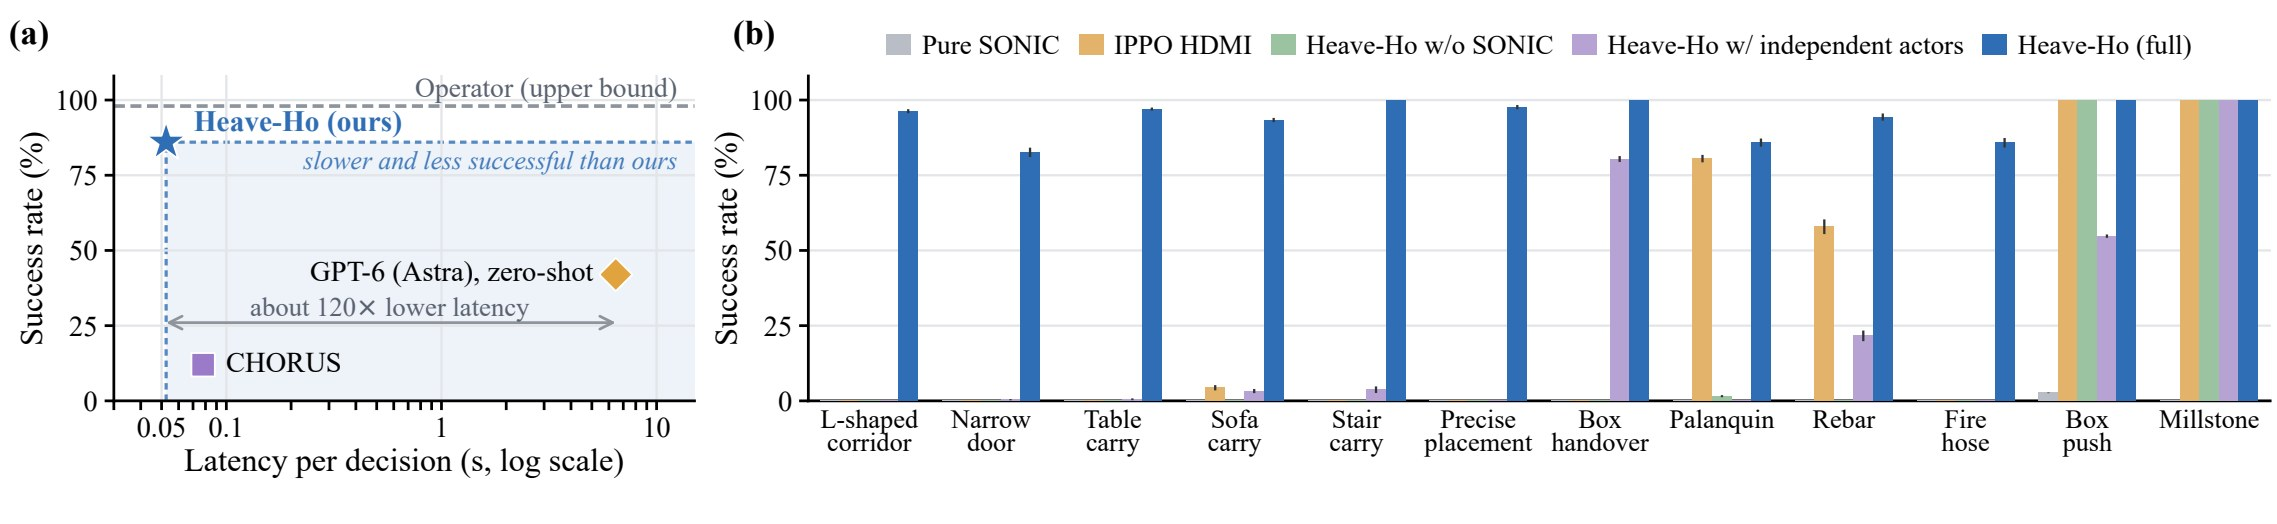
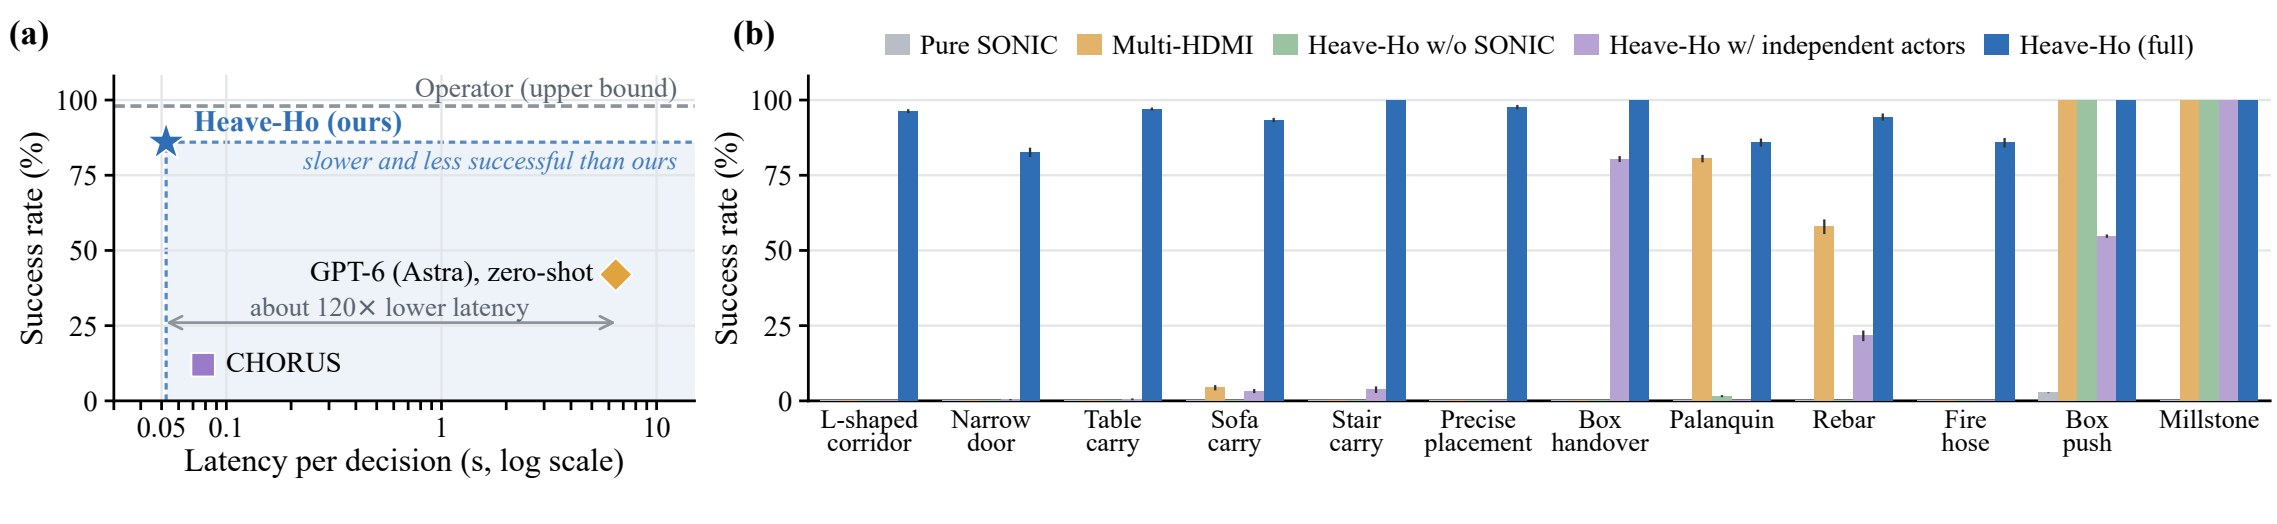
Rename IPPO HDMI baseline to Multi-HDMI; update author affiliations (VinMotion)

Changed region(s): [[0.4054, 0.0611, 0.9666, 0.1221]]

diff --git a/index.html b/index.html
@@ -24,7 +24,7 @@ table{border-collapse:collapse;width:100%;margin-top:14px;font-size:15.5px}th,td
 footer{text-align:center;color:var(--mute);font-size:14px;padding:0 20px 44px}
 @media(max-width:640px){.stats{grid-template-columns:repeat(2,1fr)}.grid{grid-template-columns:1fr}}
 </style></head><body>
-<section class="hero"><h1>Heave<em>-</em>Ho</h1><div class="sub">Decentralized Long-Horizon Multi-Humanoid Collaboration</div><div class="authors"><span>Ting-Hsuan Chen<sup>1*</sup></span> <span>Siheng Zhao<sup>1*</sup></span> <span>Han Jiang<sup>2</sup></span> <span>Qi Pan<sup>1</sup></span> <span>Louison Lu<sup>1</sup></span> <span>Jiaheng Luo<sup>2</sup></span> <span>Henghui Bao<sup>1</sup></span> <span>Yiyu Chen<sup>1</sup></span> <span>Quan Nguyen<sup>1</sup></span> <span>Yue Wang<sup>1</sup></span></div><div class="affil"><span><sup>1</sup>University of Southern California</span><span><sup>2</sup>Nanjing University</span><span><sup>*</sup>Equal contribution</span></div><div class="links"><a class="btn off" aria-disabled="true">Paper (arXiv, coming soon)</a></div>
+<section class="hero"><h1>Heave<em>-</em>Ho</h1><div class="sub">Decentralized Long-Horizon Multi-Humanoid Collaboration</div><div class="authors"><span>Ting-Hsuan Chen<sup>1*</sup></span> <span>Siheng Zhao<sup>1*</sup></span> <span>Han Jiang<sup>1</sup></span> <span>Qi Pan<sup>1</sup></span> <span>Louison Lu<sup>1</sup></span> <span>Jiaheng Luo<sup>1</sup></span> <span>Henghui Bao<sup>1</sup></span> <span>Yiyu Chen<sup>2</sup></span> <span>Quan Nguyen<sup>1</sup></span> <span>Yue Wang<sup>1</sup></span></div><div class="affil"><span><sup>1</sup>University of Southern California</span><span><sup>2</sup>VinMotion</span><span><sup>*</sup>Equal contribution</span></div><div class="links"><a class="btn off" aria-disabled="true">Paper (arXiv, coming soon)</a></div>
 <div class="wave"><i style="animation-delay:0ms;--h:23%"></i><i style="animation-delay:963ms;--h:23%"></i><i style="animation-delay:826ms;--h:24%"></i><i style="animation-delay:689ms;--h:24%"></i><i style="animation-delay:552ms;--h:25%"></i><i style="animation-delay:415ms;--h:26%"></i><i style="animation-delay:278ms;--h:27%"></i><i style="animation-delay:141ms;--h:29%"></i><i style="animation-delay:4ms;--h:31%"></i><i style="animation-delay:967ms;--h:33%"></i><i style="animation-delay:830ms;--h:35%"></i><i style="animation-delay:693ms;--h:38%"></i><i style="animation-delay:556ms;--h:41%"></i><i style="animation-delay:419ms;--h:45%"></i><i style="animation-delay:282ms;--h:48%"></i><i style="animation-delay:145ms;--h:53%"></i><i style="animation-delay:8ms;--h:57%"></i><i style="animation-delay:971ms;--h:62%"></i><i style="animation-delay:834ms;--h:67%"></i><i style="animation-delay:697ms;--h:71%"></i><i style="animation-delay:560ms;--h:76%"></i><i style="animation-delay:423ms;--h:80%"></i><i style="animation-delay:286ms;--h:84%"></i><i style="animation-delay:149ms;--h:87%"></i><i style="animation-delay:12ms;--h:90%"></i><i style="animation-delay:975ms;--h:92%"></i><i style="animation-delay:838ms;--h:94%"></i><i style="animation-delay:701ms;--h:94%"></i><i style="animation-delay:564ms;--h:94%"></i><i style="animation-delay:427ms;--h:92%"></i><i style="animation-delay:290ms;--h:90%"></i><i style="animation-delay:153ms;--h:87%"></i><i style="animation-delay:16ms;--h:84%"></i><i style="animation-delay:979ms;--h:80%"></i><i style="animation-delay:842ms;--h:76%"></i><i style="animation-delay:705ms;--h:71%"></i><i style="animation-delay:568ms;--h:67%"></i><i style="animation-delay:431ms;--h:62%"></i><i style="animation-delay:294ms;--h:57%"></i><i style="animation-delay:157ms;--h:53%"></i><i style="animation-delay:20ms;--h:48%"></i><i style="animation-delay:983ms;--h:45%"></i><i style="animation-delay:846ms;--h:41%"></i><i style="animation-delay:709ms;--h:38%"></i><i style="animation-delay:572ms;--h:35%"></i><i style="animation-delay:435ms;--h:33%"></i><i style="animation-delay:298ms;--h:31%"></i><i style="animation-delay:161ms;--h:29%"></i><i style="animation-delay:24ms;--h:27%"></i><i style="animation-delay:987ms;--h:26%"></i><i style="animation-delay:850ms;--h:25%"></i><i style="animation-delay:713ms;--h:24%"></i><i style="animation-delay:576ms;--h:24%"></i><i style="animation-delay:439ms;--h:23%"></i><i style="animation-delay:302ms;--h:23%"></i></div>
 <div id="tw"><video id="teaser" src="videos/teaser.mp4" poster="posters/teaser.jpg" preload="metadata" playsinline></video><button id="play" aria-label="Play the teaser video"><svg viewBox="0 0 24 24" width="44" height="44" aria-hidden="true"><path d="M8 5v14l11-7z" fill="#fff"/></svg></button></div>
 <div class="stats"><div><b>2</b>identical humanoids in training</div><div><b>10</b>robots at deployment</div><div><b>12</b>tasks in HH-Bench</div><div><b>0</b>network messages between robots</div></div></section>
@@ -43,7 +43,7 @@ footer{text-align:center;color:var(--mute);font-size:14px;padding:0 20px 44px}
 <h3>High-level planning</h3><p class="lead">One decision of our planner takes 52.5 ms on a single RTX 4090, about 120 times faster than GPT-6 (Astra) through its API (6.46 s on average).</p>
 <div class="wrap"><table><tr><th>Decision maker</th><th>Door (real)</th><th>Corridor (real)</th><th>Handover (sim)</th><th>Table (sim)</th><th>Sofa (sim)</th><th>Avg.</th></tr><tr><td>GPT-6 (Astra), zero-shot</td><td>3/10</td><td>4/10</td><td>7/10</td><td>4/10</td><td>3/10</td><td><b>42%</b></td></tr><tr><td>CHORUS</td><td>0/10</td><td>0/10</td><td>6/10</td><td>0/10</td><td>0/10</td><td><b>12%</b></td></tr><tr class=me><td>Heave-Ho (ours)</td><td>6/10</td><td>7/10</td><td>10/10</td><td>10/10</td><td>10/10</td><td><b>86%</b></td></tr><tr><td>Human operator (upper bound)</td><td>9/10</td><td>10/10</td><td>10/10</td><td>10/10</td><td>10/10</td><td><b>98%</b></td></tr></table></div>
 <h3>Low-level post-training</h3><p class="lead">Averaged over the 12 tasks, Heave-Ho succeeds in 94.41% of the episodes, while no baseline or ablation exceeds 28.56%.</p>
-<div class="wrap"><table><tr><th>Method</th><th></th><th>Success (%)</th><th>Body error (cm)</th><th>Object error (cm)</th></tr><tr><td>Pure SONIC</td><td>Baseline</td><td>0.22</td><td>58.24</td><td>83.20</td></tr><tr><td>IPPO HDMI</td><td>Baseline</td><td>28.56</td><td>68.57</td><td>66.92</td></tr><tr><td>Heave-Ho w/o SONIC</td><td>Ablation</td><td>16.78</td><td>92.69</td><td>89.53</td></tr><tr><td>Heave-Ho w/ independent actors</td><td>Ablation</td><td>22.05</td><td>35.59</td><td>35.00</td></tr><tr class=me><td>Heave-Ho (full)</td><td>Ours</td><td>94.41</td><td>18.62</td><td>19.59</td></tr></table></div>
+<div class="wrap"><table><tr><th>Method</th><th></th><th>Success (%)</th><th>Body error (cm)</th><th>Object error (cm)</th></tr><tr><td>Pure SONIC</td><td>Baseline</td><td>0.22</td><td>58.24</td><td>83.20</td></tr><tr><td>Multi-HDMI</td><td>Baseline</td><td>28.56</td><td>68.57</td><td>66.92</td></tr><tr><td>Heave-Ho w/o SONIC</td><td>Ablation</td><td>16.78</td><td>92.69</td><td>89.53</td></tr><tr><td>Heave-Ho w/ independent actors</td><td>Ablation</td><td>22.05</td><td>35.59</td><td>35.00</td></tr><tr class=me><td>Heave-Ho (full)</td><td>Ours</td><td>94.41</td><td>18.62</td><td>19.59</td></tr></table></div>
 </main><footer>Heave-Ho</footer>
 <script>
 const io=new IntersectionObserver(es=>es.forEach(e=>{const v=e.target;if(e.isIntersecting){v.play().catch(()=>{})}else{v.pause()}}),{threshold:.35});
